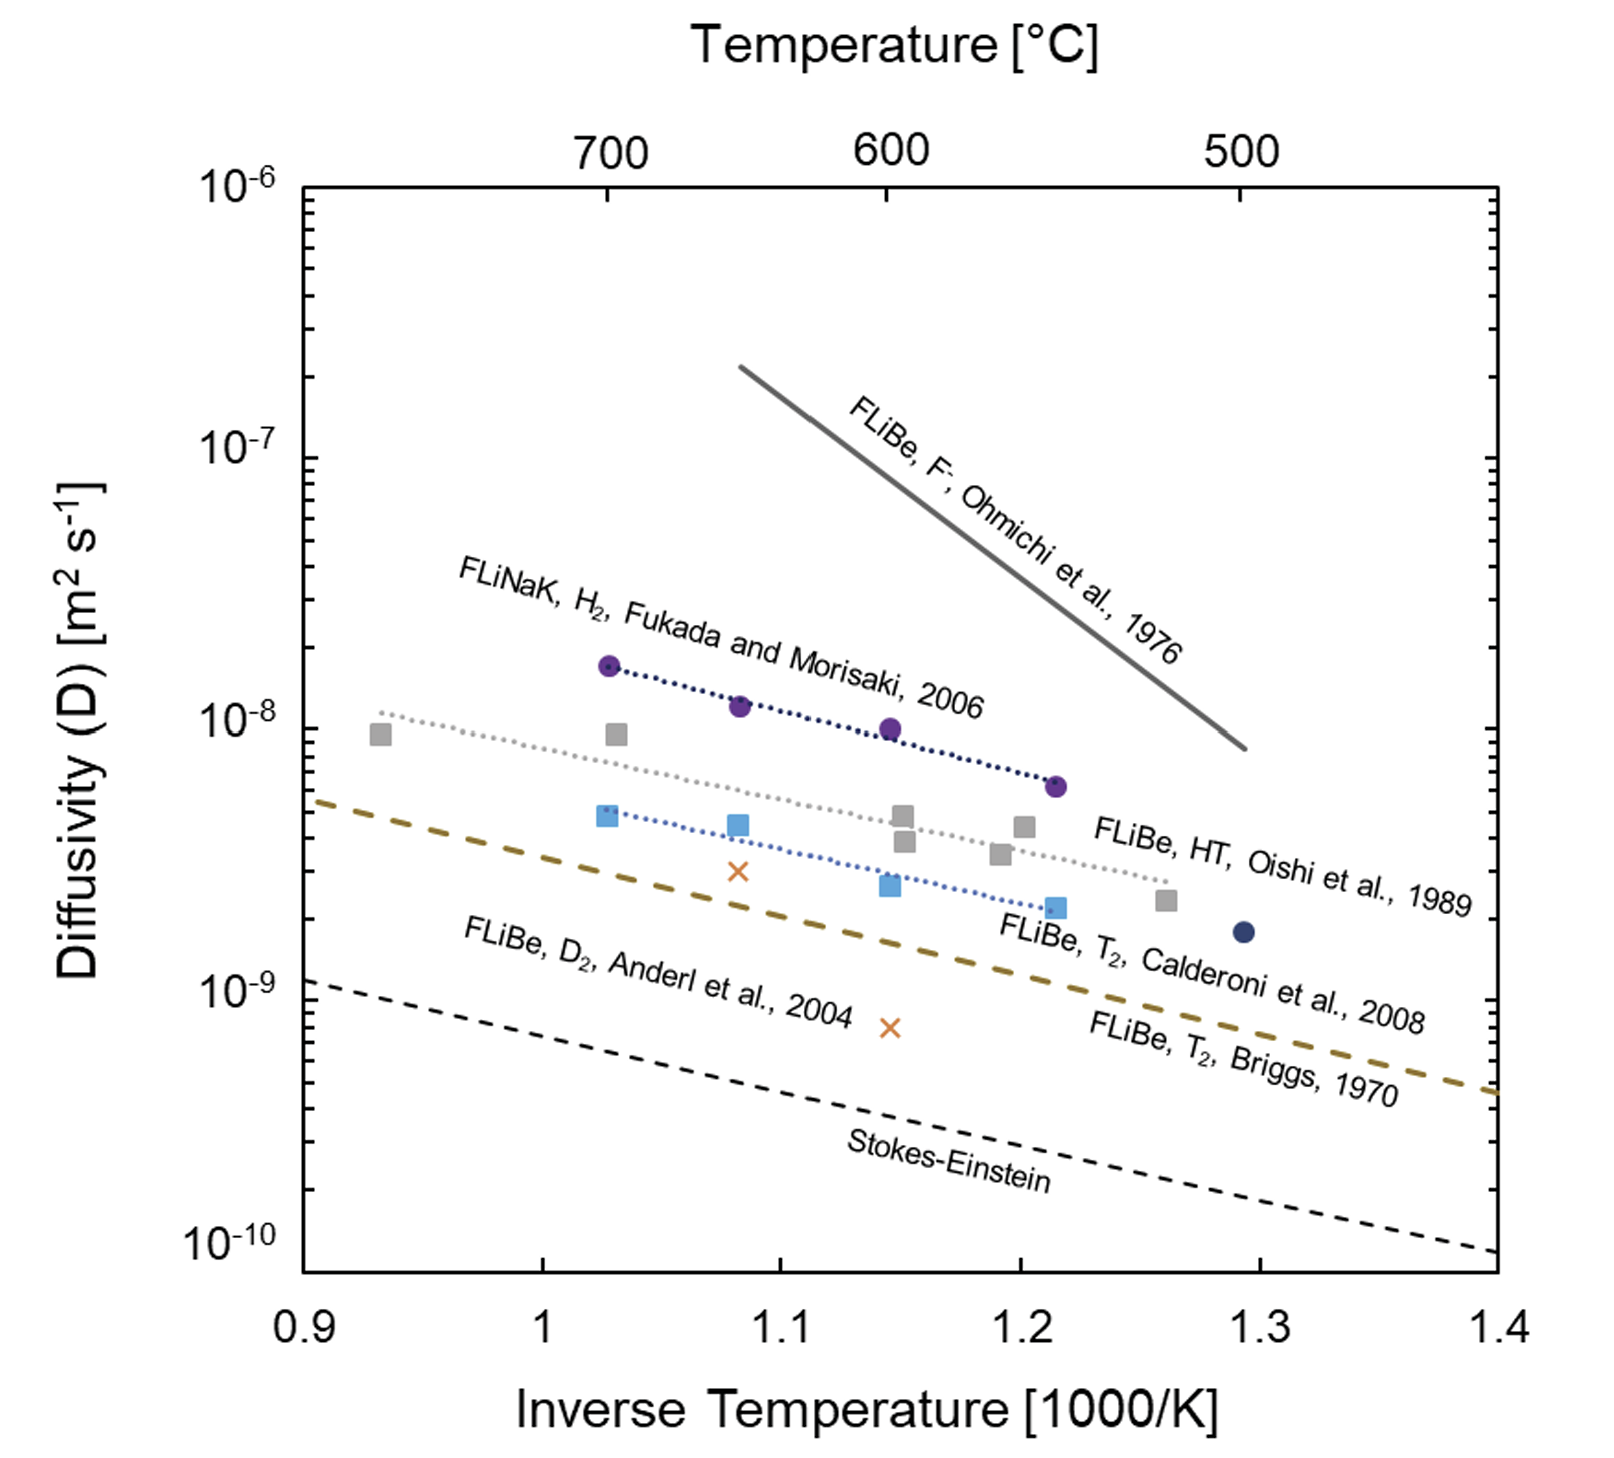
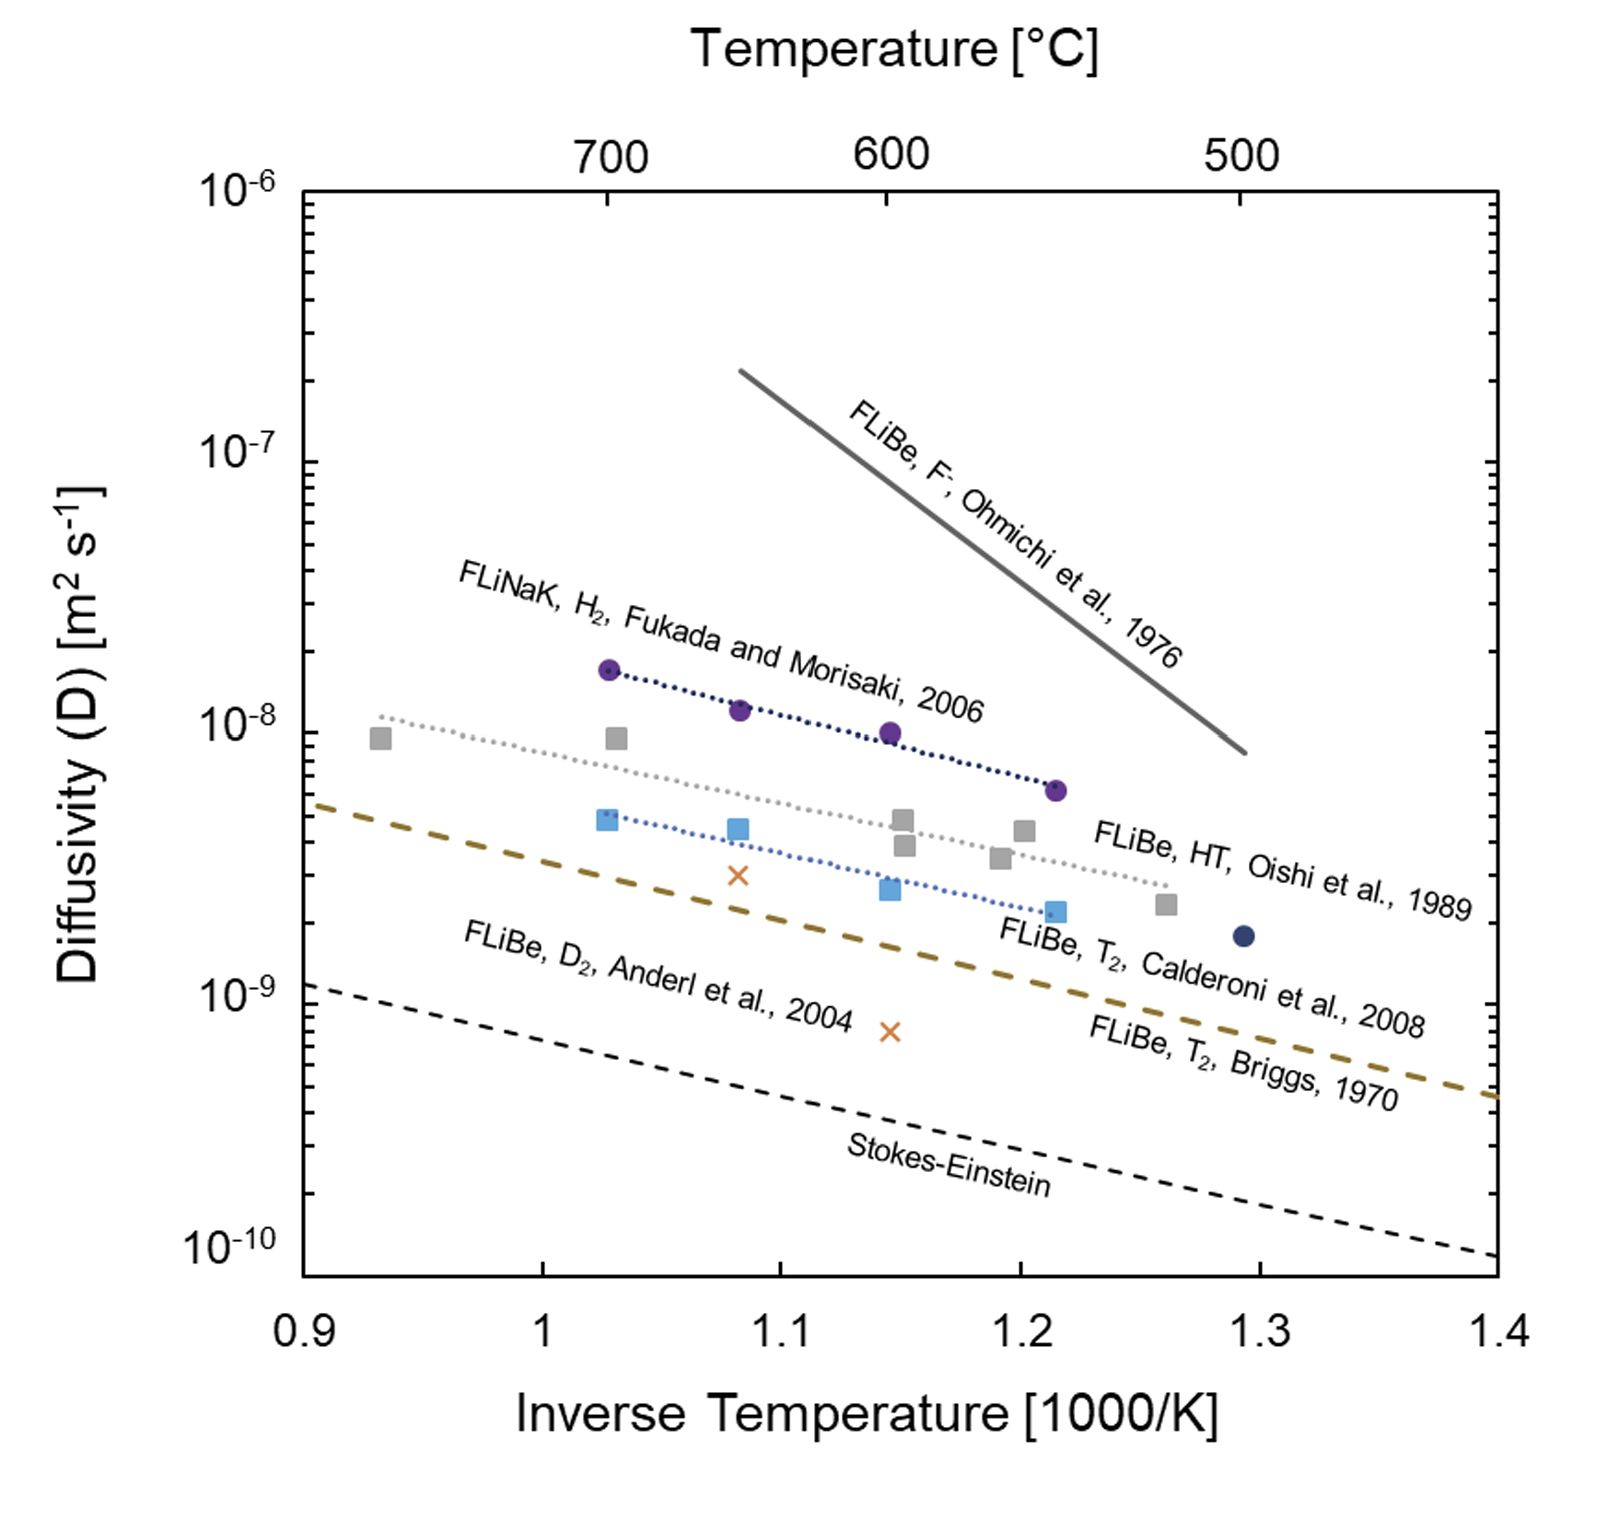
small changes in figures

diff --git a/diag_resistances.tex b/diag_resistances.tex
@@ -1,7 +1,6 @@
-% Summary of the permeation chapter as a resistance network. Fills encode the tritium
-% concentration, which falls along every pathway; R3 is drawn as a variable resistance because
-% the sweep gas chemistry is what sets it, and the wall is drawn as a tank because when R3 is
-% large it stores instead of conducting.
+% Summary of the permeation chapter as a resistance network. R3 is drawn as a variable
+% resistance because the sweep gas chemistry is what sets it, and the wall carries a capacitor
+% in parallel with R2 because when R3 is large it stores tritium instead of conducting it.
 % Requires in the preamble: \usepackage{tikz}
 %   \usetikzlibrary{positioning, fit, backgrounds, arrows.meta}
 \begin{tikzpicture}[
@@ -21,41 +20,57 @@
 \node[align=center] at (1.25,1.95) {\textbf{salt}};
 \node[note, align=center] at (1.25,1.25) {the whole bred\\inventory};
 
-\filldraw[tank, fill=orange!45] (6.0,0) rectangle (7.1,3.0);
-\node[rotate=90] at (6.55,1.5) {\textbf{wall}};
-\node[note, anchor=south east, align=right] at (7.15,3.12) {$R_2$, diffusion\\in inconel, fast};
+% the wall is not a plain node: R2 carries tritium through it, and in parallel a capacitor
+% holds what it stores, which is the retention result
+\filldraw[tank, fill=black!8, dashed, draw=black!50] (5.85,-0.20) rectangle (8.25,2.30);
+\node[anchor=north west] at (5.95,2.22) {\textbf{wall}};
+\node[res, minimum width=1.15cm, minimum height=0.55cm] at (7.15,1.5) {$R_2$};
+\node[note, anchor=south, align=center] at (7.05,2.40) {$R_2$, diffusion in\\inconel, fast};
+% the parallel capacitor: the inventory the wall holds instead of passing on
+\draw[wire] (6.35,1.5) -- (6.35,0.80);
+\draw[wire] (7.95,1.5) -- (7.95,0.80);
+\draw[wire] (6.35,0.80) -- (6.97,0.80);
+\draw[wire] (7.33,0.80) -- (7.95,0.80);
+\draw[line width=1.1pt, black!65] (6.97,0.48) -- (6.97,1.12);
+\draw[line width=1.1pt, black!65] (7.33,0.48) -- (7.33,1.12);
+\node[note, anchor=north] at (7.15,0.26) {stored};
 
 % ---- sparging, straight out of the salt ------------------------------------------------ %
-\draw[wire, ->] (1.25,3.0) -- (1.25,4.15);
-\node[sink, fill=black!4, minimum width=2.7cm] at (1.25,4.68)
-    {extracted by sparging, $\tau$};
+\draw[wire, ->] (1.25,3.0) -- (1.25,4.75);
+\node[res, fill=white, rotate=90] at (1.25,3.62) {$R_0$};
+\node[val, anchor=west] at (1.62,3.62) {$R_0\propto\tau$};
+\node[sink, fill=black!4, minimum width=2.7cm] at (1.25,5.28)
+    {extracted by sparging};
 
 % ---- R1: salt to wall, the one that decides how much permeates -------------------------- %
-\draw[wire] (2.5,1.5) -- (6.0,1.5);
-\node[res, fill=red!12] at (4.25,1.5) {$R_1$};
+\draw[wire] (2.5,1.5) -- (6.35,1.5);
+\node[res, fill=white] at (4.25,1.5) {$R_1$};
 \node[val, anchor=south] at (4.25,1.88) {$1/k_\mathrm{eff}$, $k_\mathrm{eff}=k_m/\mathrm{PRF}$};
 
 % ---- the divider: R3 to the OV gas, R4 to the room -------------------------------------- %
-\draw[wire] (7.1,2.35) -- (8.05,2.35);
-\draw[wire, ->] (9.55,2.35) -- (10.3,2.35);
-\node[res, fill=orange!12] at (8.8,2.35) {$R_3$};
-\draw[->, black!75, line width=0.7pt] (8.15,1.98) -- (9.45,2.72);   % variable resistance
-\node[val, anchor=south] at (8.8,2.98) {sweep gas chemistry};
+\draw[wire] (7.95,1.5) -- (8.55,1.5);
+\draw[wire] (8.55,2.35) -- (8.55,0.65);
 
-\draw[wire] (7.1,0.65) -- (8.05,0.65);
-\draw[wire, ->] (9.55,0.65) -- (10.3,0.65);
-\node[res, fill=orange!12] at (8.8,0.65) {$R_4$};
-\node[val, anchor=north] at (8.8,0.30) {spacer ribs, set by $\chi$};
+\draw[wire] (8.55,2.35) -- (8.85,2.35);
+\draw[wire, ->] (10.35,2.35) -- (11.0,2.35);
+\node[res, fill=white] at (9.6,2.35) {$R_3$};
+\draw[->, black!75, line width=0.7pt] (8.95,1.98) -- (10.25,2.72);   % variable resistance
+\node[val, anchor=south] at (9.6,2.98) {sweep gas chemistry};
 
-\node[sink, fill=black!4] at (11.45,2.35) {collected\\in the OV gas};
-\node[sink, fill=black!4, draw=red!70!black] at (11.45,0.65)
+\draw[wire] (8.55,0.65) -- (8.85,0.65);
+\draw[wire, ->] (10.35,0.65) -- (11.0,0.65);
+\node[res, fill=white] at (9.6,0.65) {$R_4$};
+\node[val, anchor=north] at (9.6,0.30) {spacer ribs, set by $\chi$};
+
+\node[sink, fill=black!4] at (12.15,2.35) {collected\\in the OV gas};
+\node[sink, fill=black!4, draw=red!70!black] at (12.15,0.65)
     {\textcolor{red!70!black}{leaked}\\to the environment};
 
 % ---- the two statements the network makes ----------------------------------------------- %
 \node[note, anchor=north, align=center] at (4.25,-0.30)
     {$R_1$ \textbf{dominates}: it alone sets \emph{how much}\\
      permeates, whatever the sweep gas is};
-\node[val, anchor=north west, align=left] at (9.55,-0.30)
+\node[val, anchor=north west, align=left] at (10.25,-0.30)
     {\textbf{share that leaks}\\
      He only \quad $\sim100\ \%$\\
      $+$\,\ce{H2O} \quad $35-45\ \%$\\
@@ -63,10 +78,4 @@
 \node[note, anchor=north west, align=left] at (0,-1.55)
     {$R_3$ large (He only): the wall stops passing tritium on and\\
      fills up instead, holding $84\ \%$ of the bred inventory after 4 days};
-
-% ---- the concentration gradient the fills encode ---------------------------------------- %
-\shade[left color=red!45, right color=black!4] (0,-2.85) rectangle (2.4,-2.58);
-\draw[black!55, line width=0.5pt] (0,-2.85) rectangle (2.4,-2.58);
-\node[note, anchor=west] at (2.55,-2.72)
-    {fill colour: tritium concentration, and with it the potential to leak};
 \end{tikzpicture}

diff --git a/thesis.tex b/thesis.tex
@@ -298,11 +298,15 @@ The viability of gas sparging as a tritium extraction system for LIBRA Pi has no
     \item \textit{What are the limitations of this prediction and how can it be improved ?}
 \end{itemize}
 
-\Cref{sec:background} will introduce the prior work on gas sparging upon which this work is built. 
+\Cref{sec:background} reviews the prior work this model is built on: what is known of the tritium transport properties of fluoride salts, what the MSRE and the molten salt reactor literature established about gas sparging, what the lithium-lead work on gas-liquid contactors contributes, where the existing models sit in cost and fidelity, and what the LIBRA programme requires.
 
-\Cref{sec:sparging_model} will present the general gas sparging species extraction model developed in this work, beginning with the description of the underlying mathematical model (\cref{sec:sparging_maths}), following with its practical implementation (\cref{sec:sparging_impl}), then presenting the engineering insights that can be learnt from this model (\cref{sec:sparging_expl}). 
+\Cref{sec:sparging_model} builds the sparging model itself: the mathematical framework of the two-phase transport (\cref{sec:sparging_maths}), from the interfacial mass transfer to the 1D ARD equations, their boundary conditions and the assumptions they rest on (\cref{sec:sparging_assumptions}); an analytical solution of those equations under four of these assumptions (\cref{sec:analytical_solution}), which yields a closed form for the extraction time; and the numerical implementation (\cref{sec:sparging_impl}), covering the automatic resolution of the closure relations, the discretisation scheme, its verification against the analytical solution and the resulting code structure.
 
-\Cref{sec:LIBRAPi_sparging} will apply the developed model to the LIBRA Pi experiment, focusing on extraction time prediction. This will then be used to inform a study of tritium permeation in LIBRA Pi (\cref{sec:LIBRAPi_permeation}). 
+\Cref{sec:sparging_expl} explores the design space of a generic sparging system with that model, mapping in turn the effect of bubble saturation (\cref{sec:impact_of_sat_Pi}), of liquid mixing (\cref{sec:impact_of_mixing}) and of the hydrostatic pressure variation along the column (\cref{sec:impact_of_pressure}), and summarising where the analytical solution can be trusted and how a sparging system should be designed.
+
+\Cref{sec:LIBRAPi_sparging} applies the model to LIBRA Pi: the model input and the sparging regimes the experiment can reach, then a sensitivity analysis that ranks the four controllable operating parameters, an operating map of the extraction time over the two that dominate, and the limitations of that prediction.
+
+\Cref{sec:LIBRAPi_permeation} puts the extraction time in competition with permeation through the double-walled vessel: the 3D transport model, its geometry and its coupling to sparging, then the results, namely that the salt side alone sets how much tritium permeates (\cref{sec:perm_salt_side}), that the sweep gas composition decides whether it is collected or lost (\cref{sec:perm_sweep}), that most of it never leaves the wall (\cref{sec:perm_retention}) and how the two removal pathways compare (\cref{sec:perm_vs_sparging}).
 
 %%%%%%%%%%%%%%%%%%%%
 \chapter{Background: tritium and molten salts}
@@ -317,7 +321,6 @@ The viability of gas sparging as a tritium extraction system for LIBRA Pi has no
 % the literature review goes here, not in the intro
 
 \section{Tritium transport properties of fluoride salts}
-\todo{adjust/crop so that they are well aligned}
 \begin{figure}[htbp]
     \centering
     \begin{subfigure}[t]{0.48\linewidth}
@@ -1243,7 +1246,7 @@ The initial tritium inventory is fixed to $3.6\cdot10^{-12} \ \mathrm{molT2}$ (e
 
 Considering the range of attainable operating parameters presented in \cref{tab:model_input}, the LIBRA Pi sparging system is characterized by the following ranges on its dimensionless groups:
 \begin{itemize}
-    \item $\Gmix=3.5-6.5\times10^{-4}$: the aspect ratio of the tank is such that the salt is well mixed at any operating point. The liquid concentration is uniform and the 0D description of the salt inventory holds;
+    \item $\Gmix=1.7\times10^{-4}-4.0\times10^{-3}$: the aspect ratio of the tank is such that the salt is well mixed at any operating point. The liquid concentration is uniform and the 0D description of the salt inventory holds;
     \item $\Gp=0.09-0.18$: growth of $a$ and $u_g$ as  gas expands along $z$ is non-negligible. The numerical model will catch this. 
     \item As for $\PI$, it is the uncertain parameter that motivates the 2 scenarios:
     \begin{itemize}

diff --git a/diag_equilibrium.tex b/diag_equilibrium.tex
@@ -8,13 +8,13 @@
     axis/.style={->, thick, black!55},
     henry/.style={very thick, black!80},
     guide/.style={dashed, black!45, line width=0.5pt},
-    drive/.style={<->, thick, orange!70!black},
+    flux/.style={->, thick, violet!70!black},
     tend/.style={->, line width=1.1pt, orange!70!black},
     font=\small,
 ]
 % the Henry line separates the plane in two: above it the liquid holds more tritium than the
 % bubble can balance, below it the bubble does
-\fill[teal!8] (0,0) -- (6.5,2.925) -- (0,4.1) -- cycle;
+\fill[green!8] (0,0) -- (6.95,3.128) -- (6.95,4.5) -- (0,4.5) -- cycle;
 
 \draw[axis] (0,0) -- (6.95,0) node[below left=1pt and -6pt] {$\PT$ in the bubble};
 \draw[axis] (0,0) -- (0,4.5) node[above right=-3pt and -18pt] {$\CT$ in the liquid};
@@ -30,10 +30,9 @@
 \node[anchor=south east, inner sep=3pt] at (1.6,3.3) {bulk state};
 \node[anchor=north west, inner sep=3pt] at (1.6,0.72) {interface, at equilibrium};
 
-% driving force of the two-film model: the vertical gap to the Henry line
-\draw[drive] (1.6,3.3) -- (1.6,0.72);
-\node[rotate=90, anchor=south, orange!70!black, inner sep=4pt] at (1.6,2.0)
-    {$\CT-K_s\,\PT$};
+% the interfacial flux, proportional to the vertical gap to the Henry line
+\draw[flux] (1.6,3.3) -- (1.6,0.80);
+\node[rotate=90, anchor=south, violet!70!black, inner sep=4pt] at (1.6,2.05) {\JT};
 
 % where the state travels: the liquid gives up tritium and the bubble takes it, so the point
 % moves down and to the right until it reaches the line

diff --git a/diag_two_film.tex b/diag_two_film.tex
@@ -11,7 +11,7 @@
     prof/.style={very thick, orange!70!black},
     iface/.style={line width=1.6pt, orange!70!black},
     dim/.style={<->, black!70, line width=0.5pt},
-    tend/.style={->, line width=1.1pt, orange!70!black},
+    flux/.style={->, line width=1.1pt, violet!70!black},
     font=\small,
 ]
 \def\YT{5.4}
@@ -44,8 +44,8 @@
 \draw[dim] (4.3,-0.35) -- (5.9,-0.35) node[midway, below, inner sep=2pt] {$\delta_g$};
 
 % net transfer, in the same colour and style as the arrow of the equilibrium panel
-\draw[tend] (3.05,4.70) -- (5.55,4.70);
-\node[anchor=south, orange!70!black, inner sep=3pt] at (3.55,4.74) {\JT};
+\draw[flux] (3.05,4.70) -- (5.55,4.70);
+\node[anchor=south, violet!70!black, inner sep=3pt] at (3.55,4.74) {\JT};
 
 % the two sides of the interface are always at equilibrium, which is what fixes the jump
 \node[anchor=north, font=\footnotesize, orange!70!black] at (4.3,-1.05)
